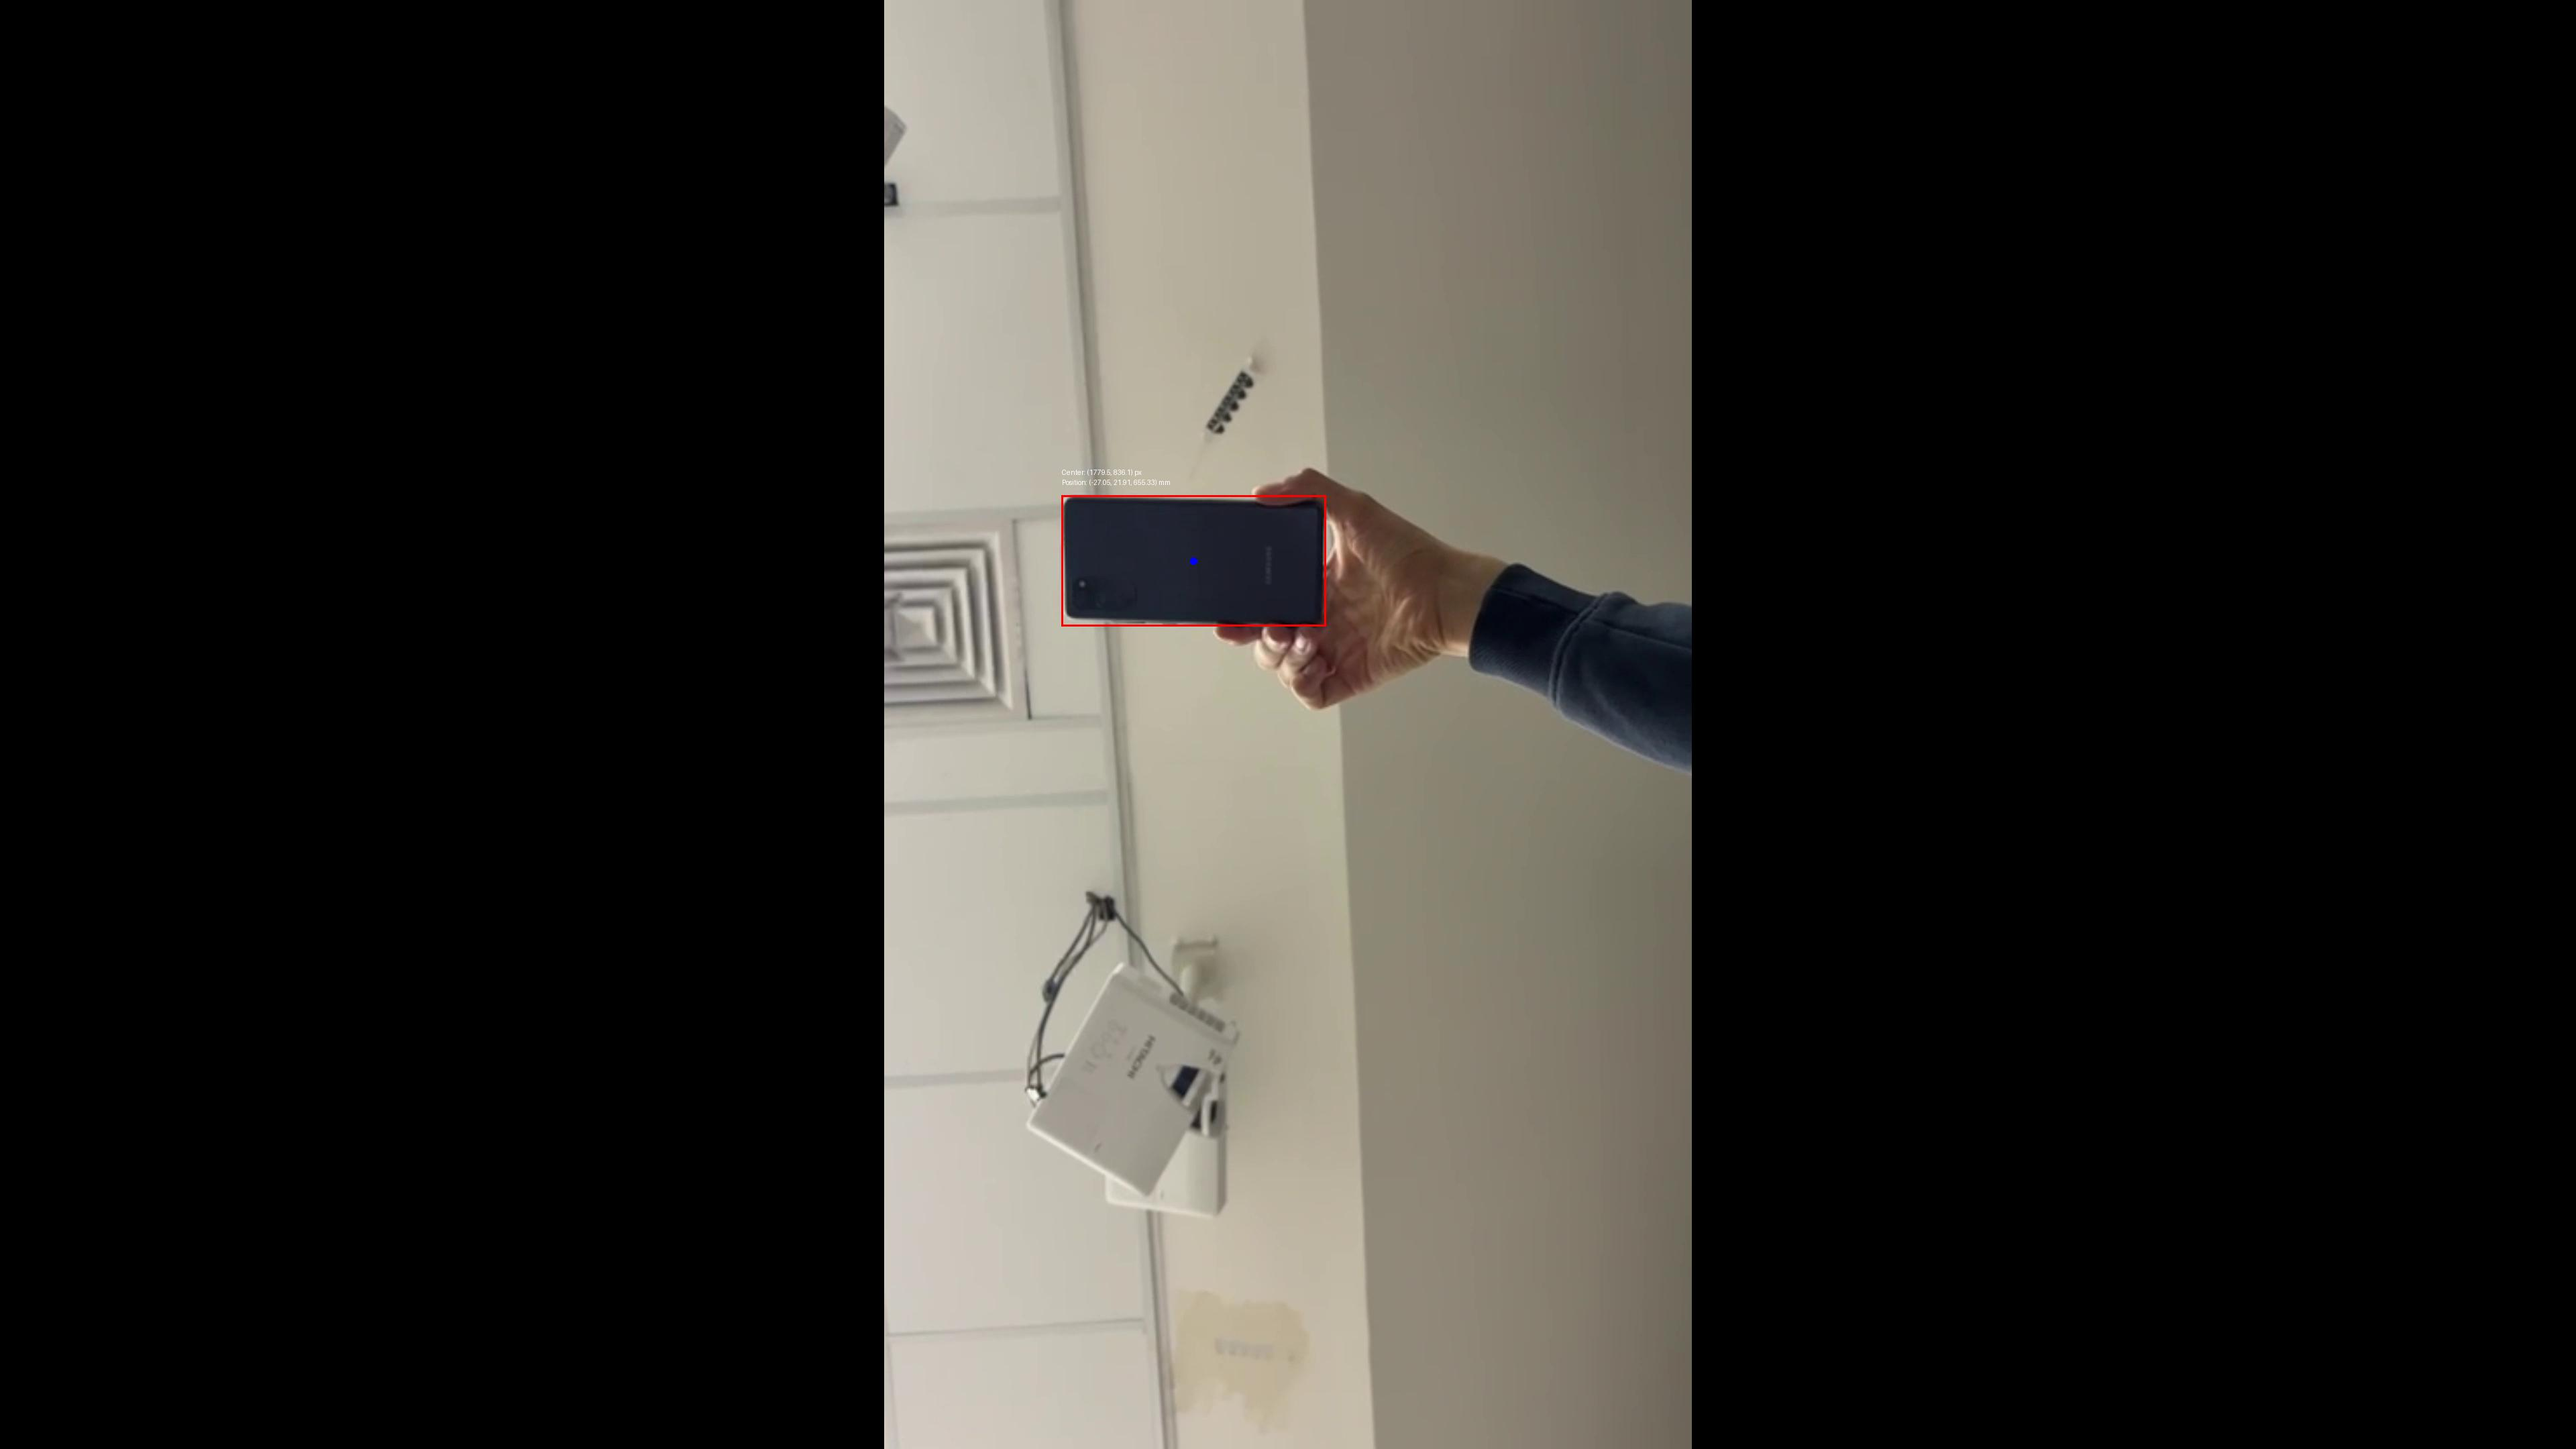
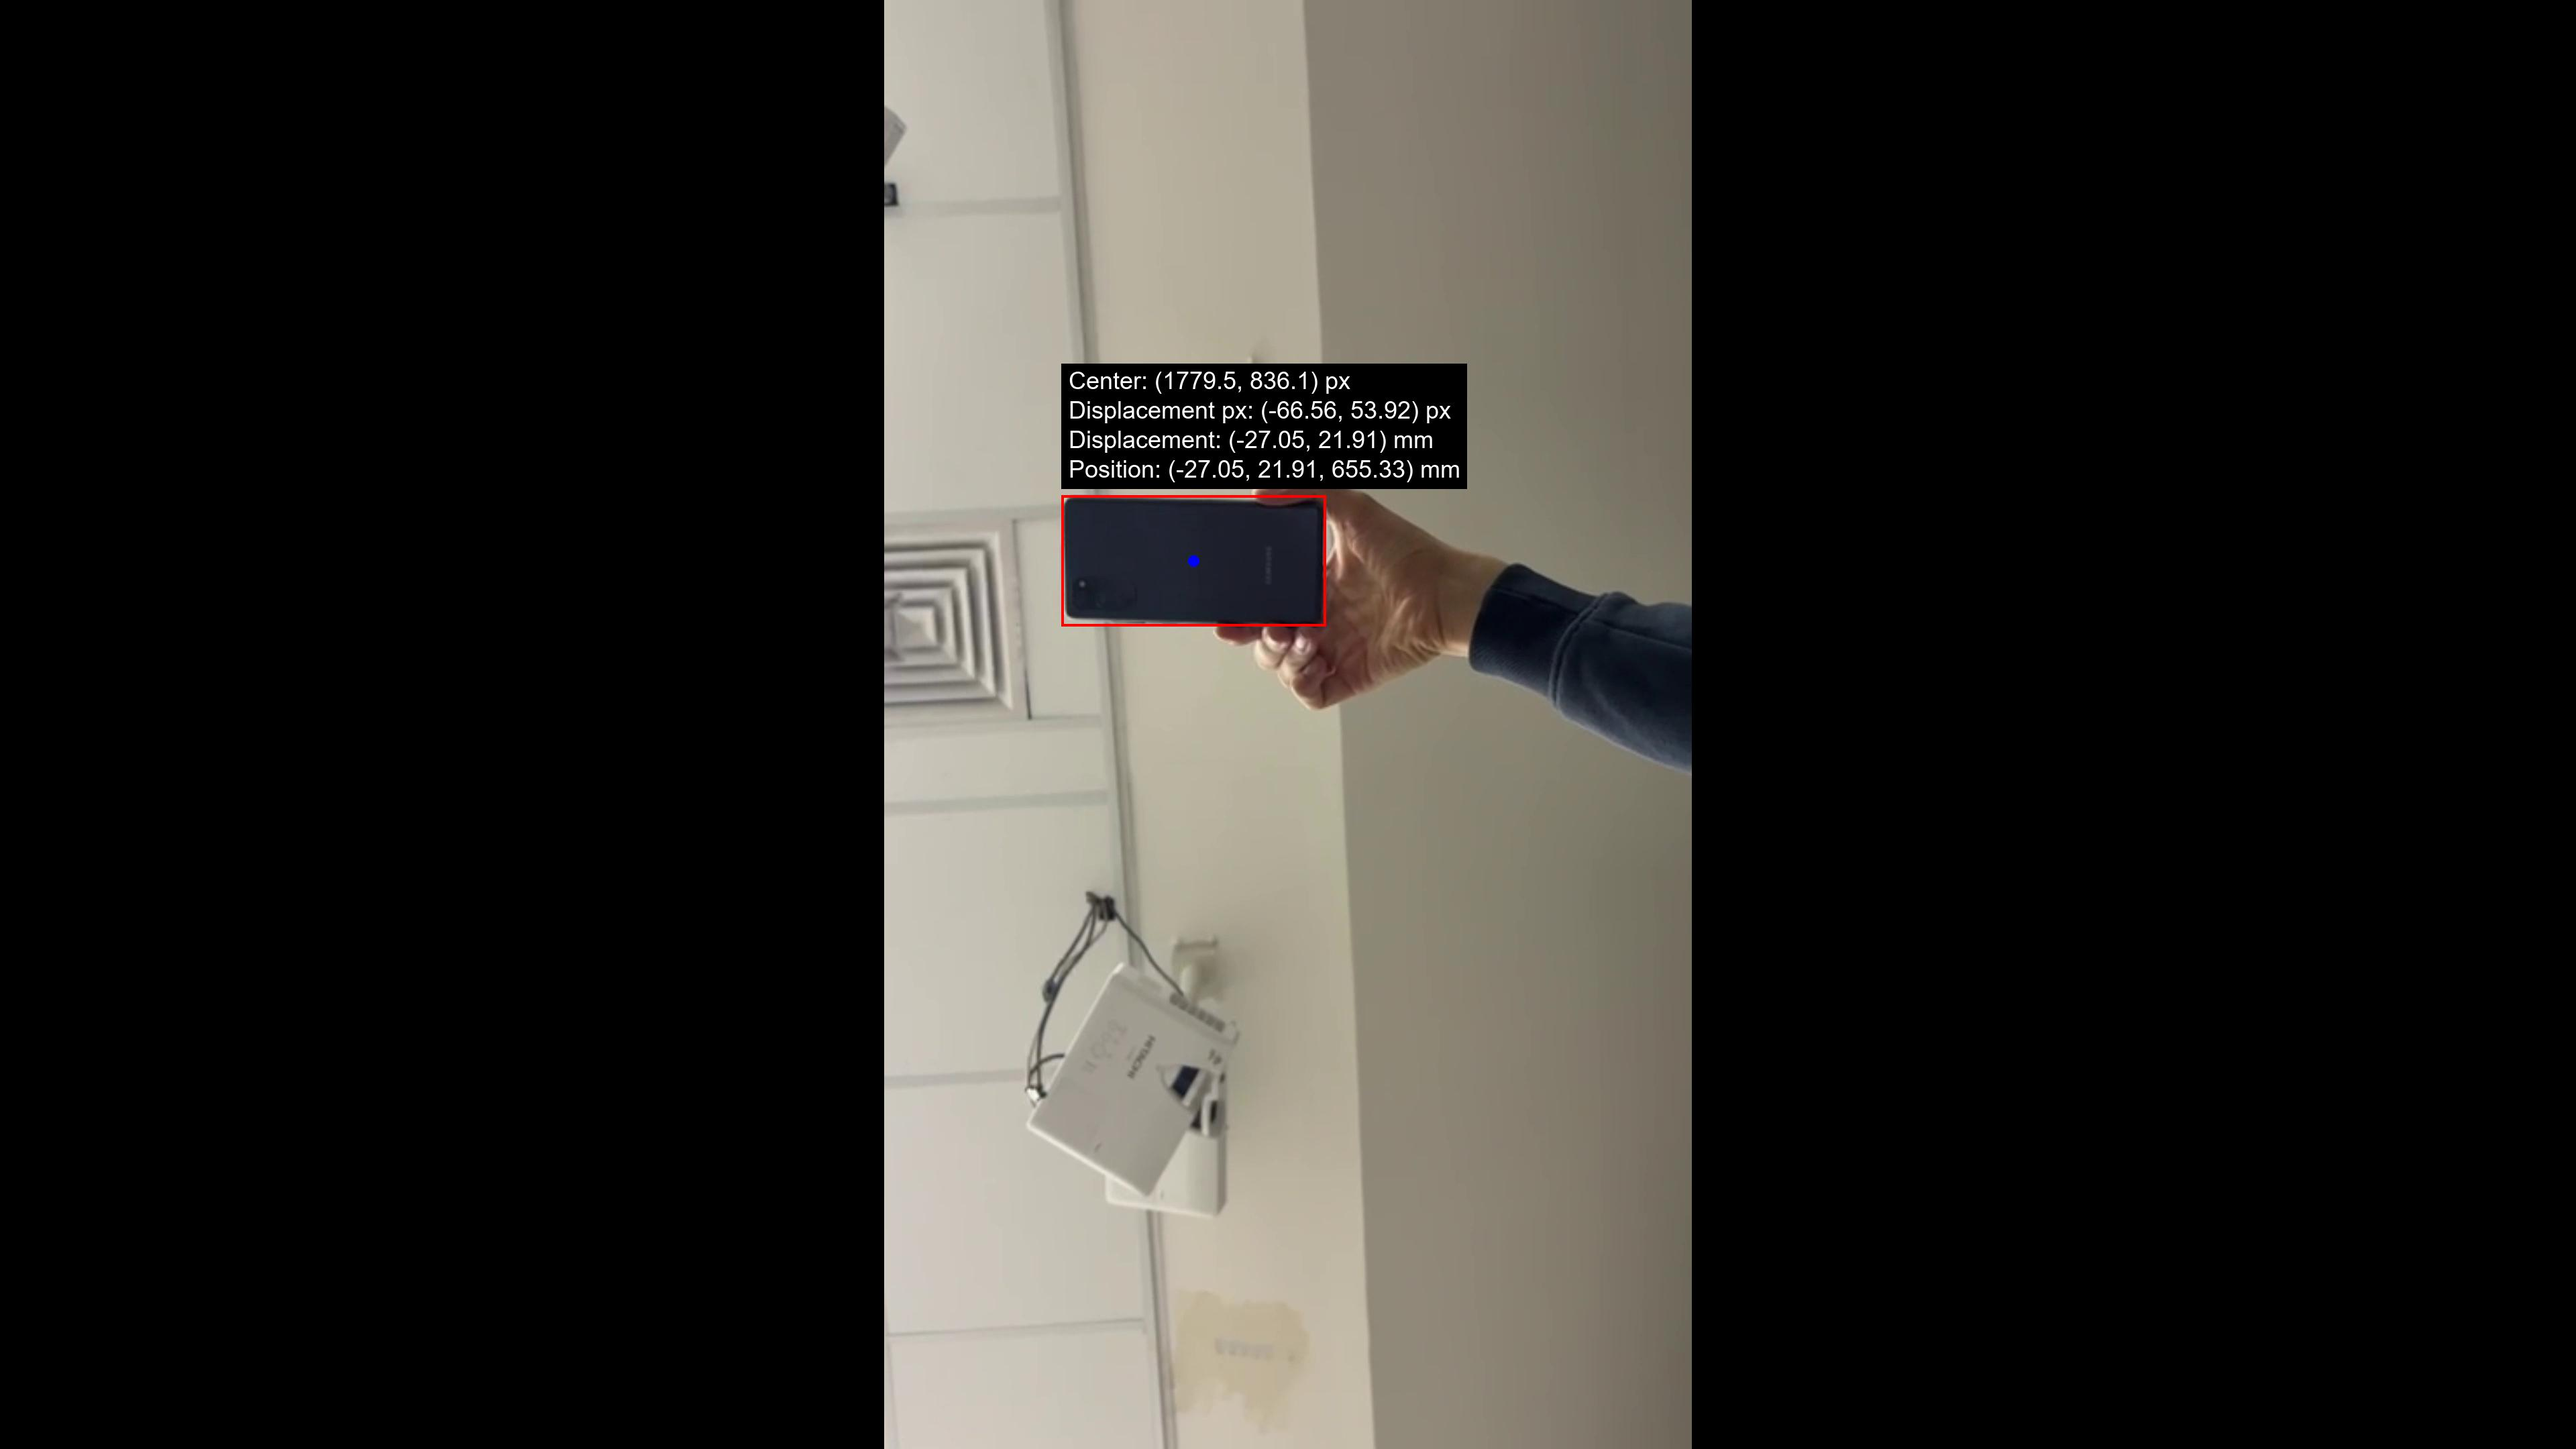
dwefwf

Changed region(s): [[0.4062, 0.2481, 0.5938, 0.3412]]

diff --git a/integration.py b/integration.py
@@ -166,6 +166,7 @@ if __name__ == "__main__":
         distance_mm = compute_distance_from_camera(bbox, PHONE_REAL_WIDTH_MM, CAMERA_FOCAL_LENGTH_MM)
         if starting_center is None:
             starting_center = center
+            pixel_dx, pixel_dy = 0, 0
             dx, dy = 0, 0
         else:
             pixel_dx = center[0] - starting_center[0]
@@ -177,22 +178,36 @@ if __name__ == "__main__":
         print(f"Frame {idx + 1}:")
         print(f"  Detection time: {elapsed:.3f} seconds")
         print(f"  Center: ({center[0]:.1f}, {center[1]:.1f}) px")
+        print(f"  Displacement px: ({pixel_dx:.2f}, {pixel_dy:.2f}) px")
         print(f"  Displacement: ({dx:.2f}, {dy:.2f}) mm")
         print(f"  Position: ({current_position[0]:.2f}, {current_position[1]:.2f}, {distance_mm:.2f}) mm")
+
         # Annotate image
         draw = ImageDraw.Draw(img)
-        font = ImageFont.load_default()
+        # Try to use a large font for readability
+        try:
+            font = ImageFont.truetype("arial.ttf", 36)
+        except Exception:
+            font = ImageFont.load_default()
         x1, y1, x2, y2 = bbox
-        draw.rectangle([x1, y1, x2, y2], outline="red", width=3)
-        draw.ellipse([center[0]-5, center[1]-5, center[0]+5, center[1]+5], fill="blue")
+        draw.rectangle([x1, y1, x2, y2], outline="red", width=4)
+        draw.ellipse([center[0]-8, center[1]-8, center[0]+8, center[1]+8], fill="blue")
         text_lines = [
             f"Center: ({center[0]:.1f}, {center[1]:.1f}) px",
+            f"Displacement px: ({pixel_dx:.2f}, {pixel_dy:.2f}) px",
+            f"Displacement: ({dx:.2f}, {dy:.2f}) mm",
             f"Position: ({current_position[0]:.2f}, {current_position[1]:.2f}, {distance_mm:.2f}) mm"
         ]
-        y_offset = y1 - 40
+        # Draw a filled rectangle as background for text for readability
+        text_bg_height = (len(text_lines) * 44) + 10
+        text_bg_width = max([draw.textlength(line, font=font) for line in text_lines]) + 20
+        text_x = x1
+        text_y = max(0, y1 - text_bg_height - 10)
+        draw.rectangle([text_x, text_y, text_x + text_bg_width, text_y + text_bg_height], fill="black")
+        y_offset = text_y + 5
         for line in text_lines:
-            draw.text((x1, y_offset), line, fill="white", font=font)
-            y_offset += 15
+            draw.text((text_x + 10, y_offset), line, fill="white", font=font)
+            y_offset += 44
         annotated_path = os.path.join(annotated_folder, f"annotated_frame_{idx+1:04d}.jpg")
         img.save(annotated_path)
         print(f"  Saved annotated image: {annotated_path}")
